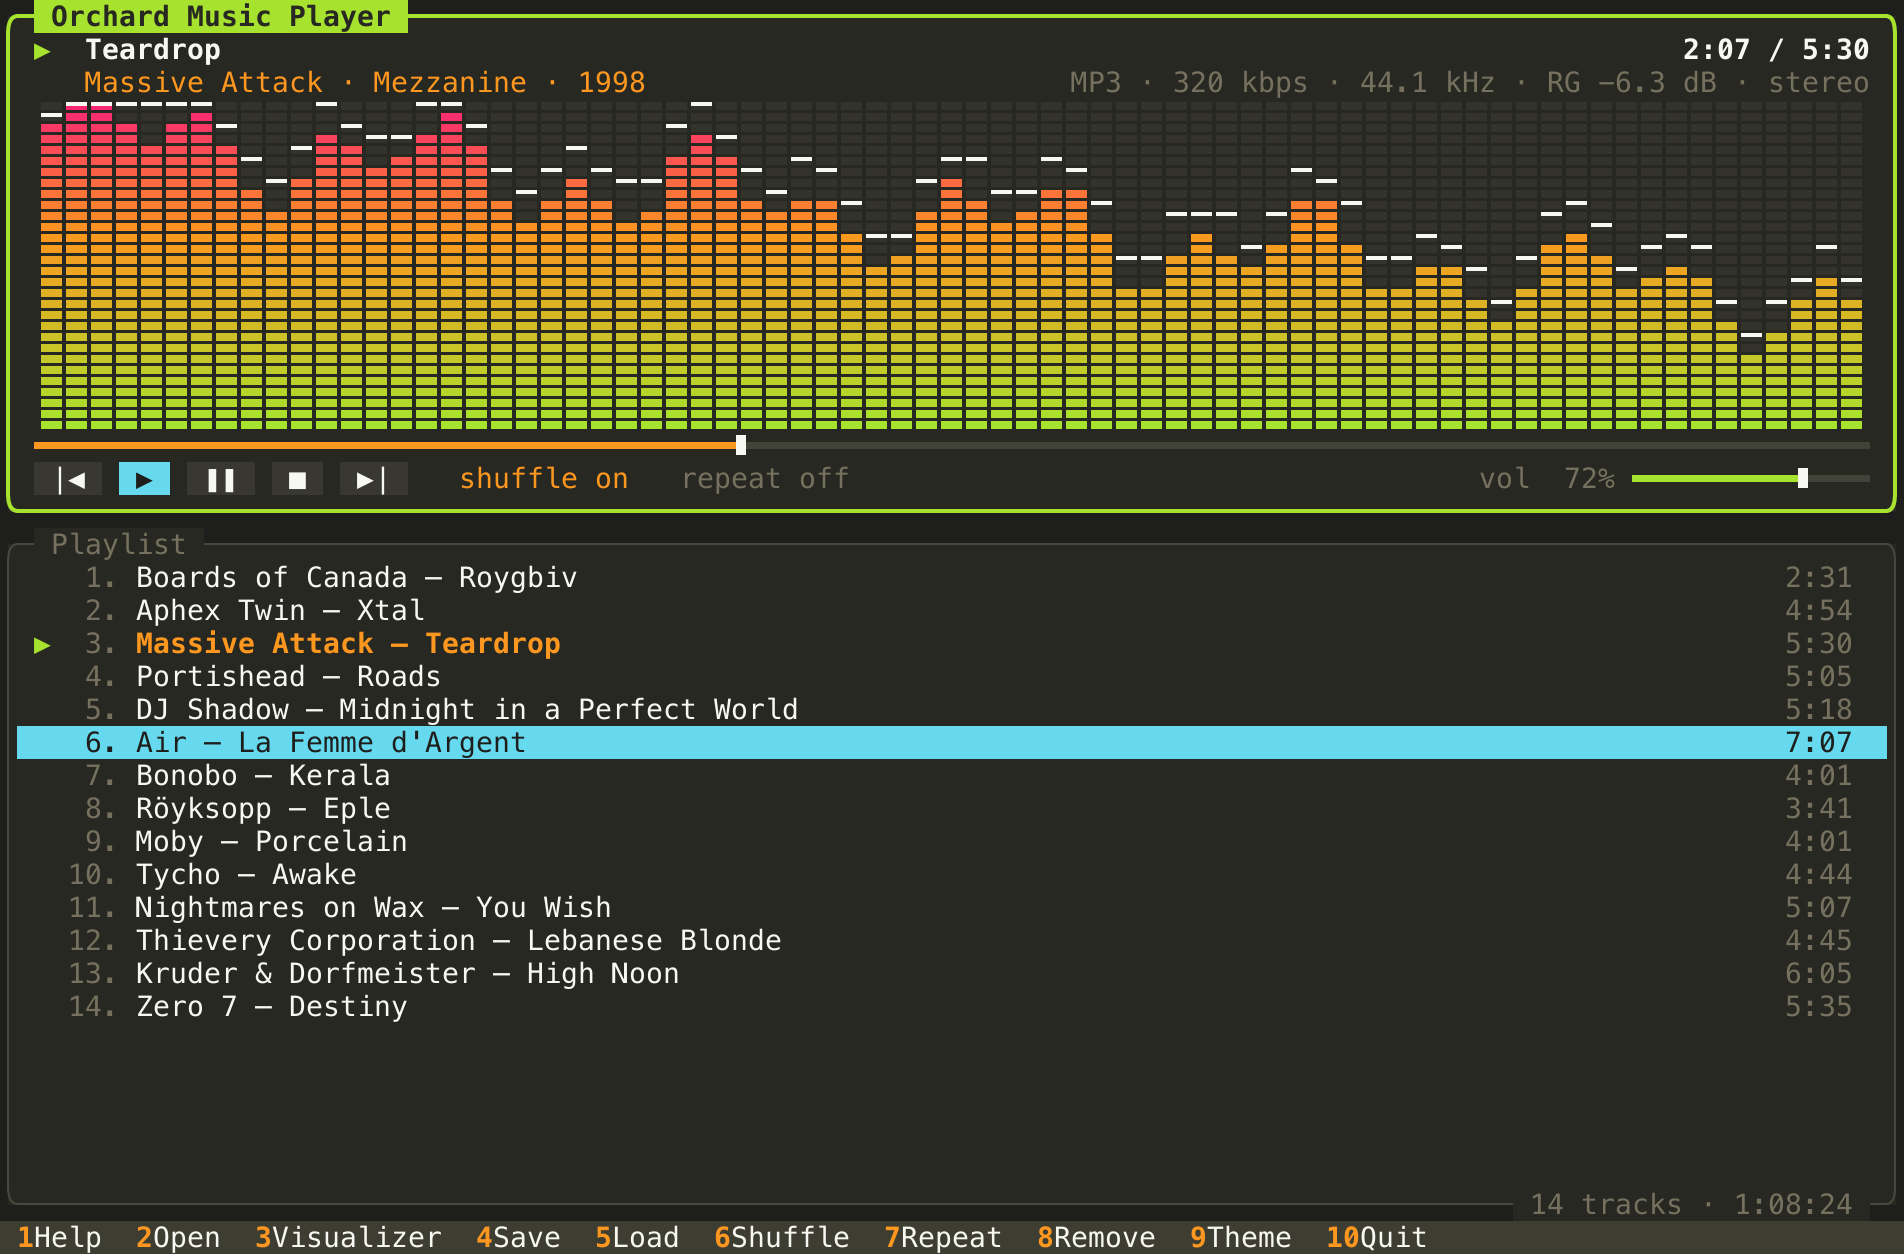
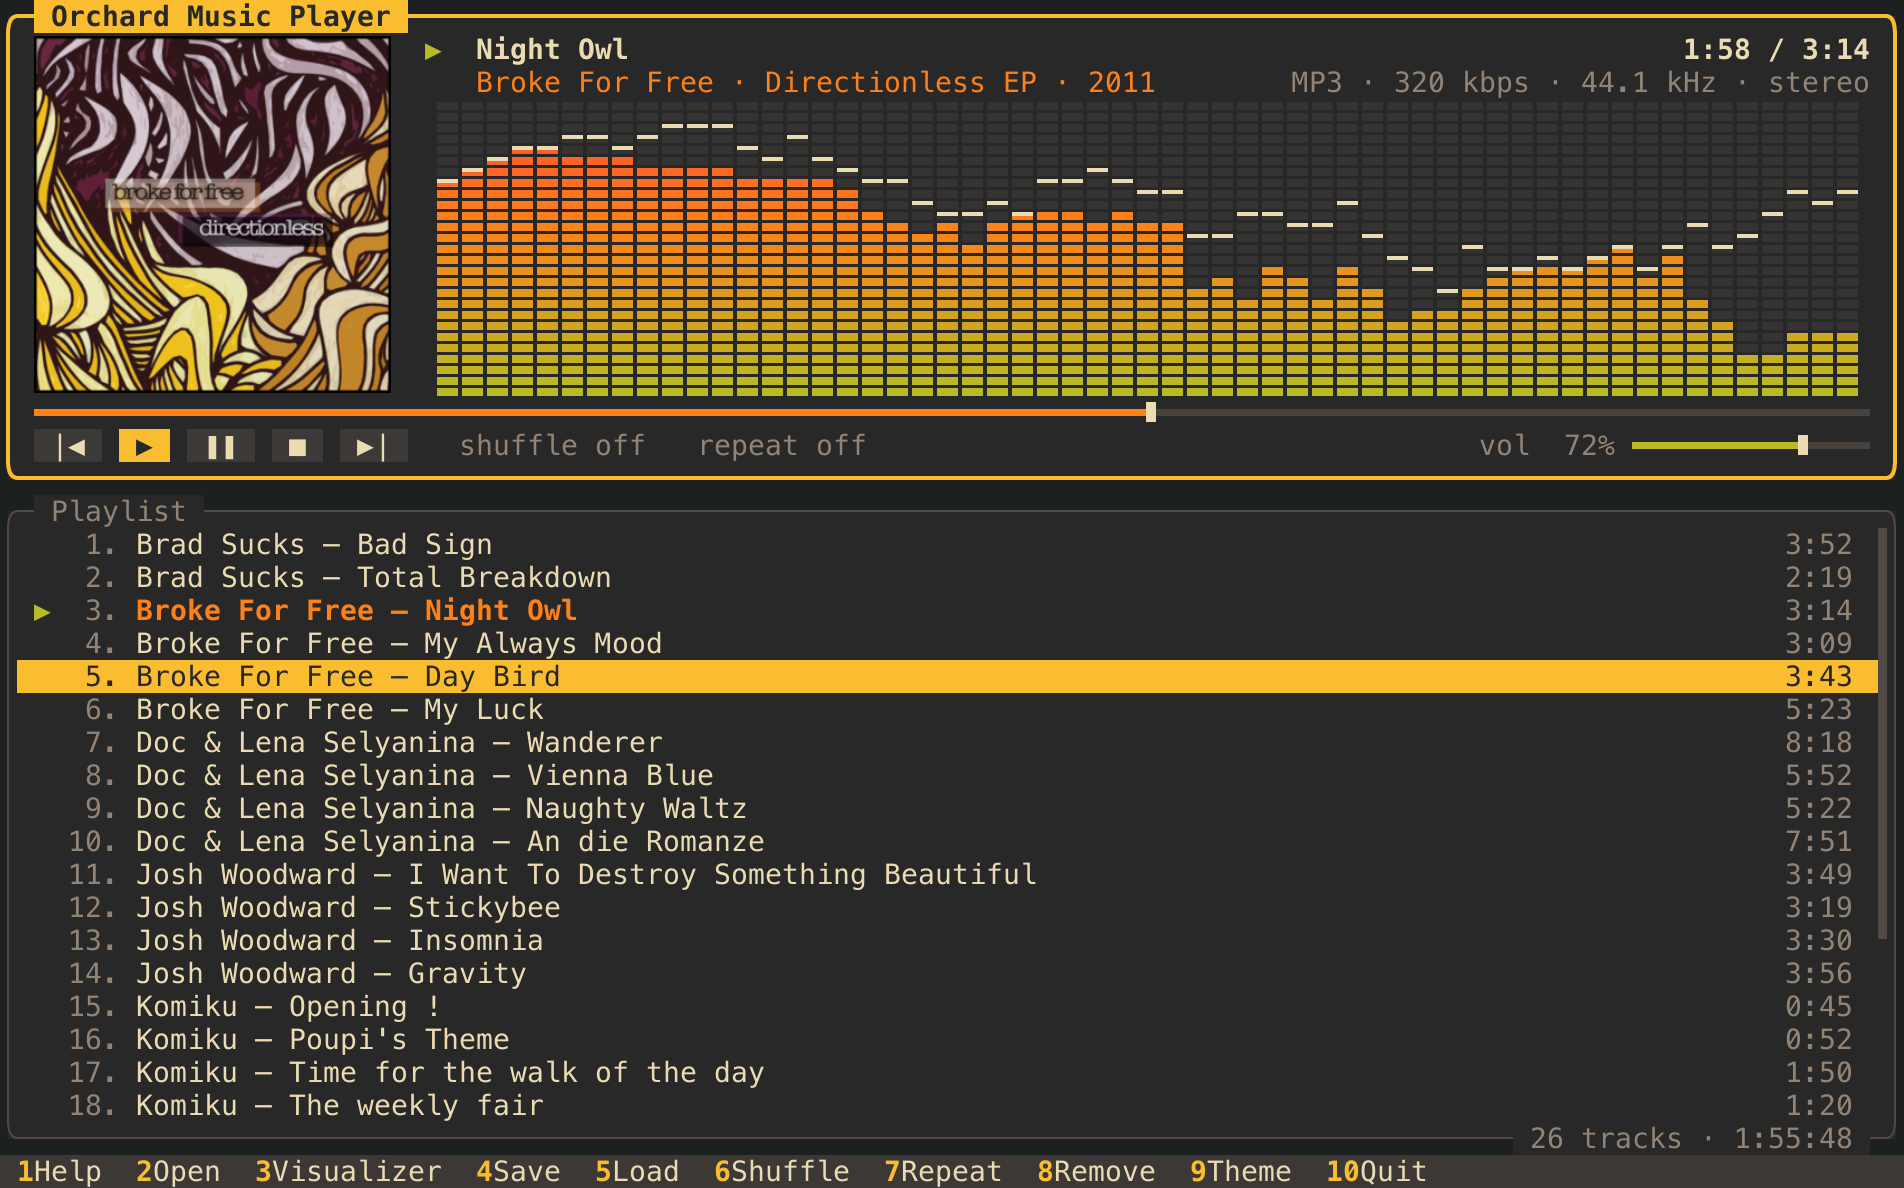
Screenshots with real Creative Commons music
--screenshot --music DIR [--play N] [--at SECONDS] loads real files with
their tags, the playing track's details and cover, and feeds the analyzer
and oscilloscope the decoded audio. Adds --vis, --cursor, --filter,
--dialog browser and lossless WebP output. New site screenshots and
credits for the albums shown.

Changed region(s): [[0.0, 0.0, 1.0, 0.9966], [0.4028, 0.0623, 0.5888, 0.0934], [0.8057, 0.9343, 0.8986, 0.9655]]

diff --git a/src/screenshot.rs b/src/screenshot.rs
@@ -1,16 +1,21 @@
-//! `--screenshot OUT.png`: a demo state drawn headlessly (docs, checking
-//! the look without a window or audio device).
+//! `--screenshot OUT.png|OUT.webp`: a state drawn headlessly (docs, checking
+//! the look without a window or audio device). Either a built-in demo, or
+//! real files with `--music DIR`: their tags, the playing track's details and
+//! cover, and the visualizer fed with its decoded audio at `--at SECONDS`.
 
-use std::path::PathBuf;
+use std::path::{Path, PathBuf};
 use std::process::ExitCode;
 use std::sync::Arc;
+use std::time::{Duration, Instant};
 
 use oc_grid::{Frame, HeadlessRenderer};
 use orchard_music_player::App;
-use orchard_music_player::app::NowPlaying;
-use orchard_music_player::audio::State;
-use orchard_music_player::meta::{Details, Tags};
+use orchard_music_player::app::{Modal, NowPlaying};
+use orchard_music_player::audio::{self, State};
+use orchard_music_player::browser::{self, Browser};
+use orchard_music_player::meta::{self, Details, Tags};
 use orchard_music_player::playlist::Entry;
+use orchard_music_player::spectrum;
 use orchard_music_player::ui;
 
 const DEMO: &[(&str, &str, &str, f64)] = &[
@@ -30,33 +35,86 @@ const DEMO: &[(&str, &str, &str, f64)] = &[
     ("Zero 7", "Destiny", "Simple Things", 335.0),
 ];
 
+/// The cover's image id in the renderer.
+const COVER_ID: u64 = 1;
+/// Frames of audio the analyzer sees before the shot, so the peak caps
+/// hang above the bars as they would.
+const WARMUP_FRAMES: usize = 40;
+const FPS: f64 = 60.0;
+
+#[derive(Default)]
+struct Options {
+    size: (u16, u16),
+    theme: Option<String>,
+    modal: Option<String>,
+    music: Option<PathBuf>,
+    /// 1-based playlist position of the playing track.
+    play: usize,
+    at: f64,
+    vis: Option<spectrum::Mode>,
+    filter: Option<String>,
+    /// 1-based playlist position of the selection.
+    cursor: Option<usize>,
+    /// The folder the file browser shows in its title (it lists `music`).
+    browse_as: Option<PathBuf>,
+    shuffle: bool,
+    volume: f32,
+}
+
+fn parse(args: &[String]) -> Options {
+    let mut o = Options { size: (112, 38), play: 1, at: 60.0, volume: 0.72, ..Options::default() };
+    let mut it = args.iter();
+    while let Some(a) = it.next() {
+        match a.as_str() {
+            "--size" => {
+                if let Some((c, r)) = it.next().and_then(|s| s.split_once('x')) {
+                    o.size = (c.parse().unwrap_or(o.size.0), r.parse().unwrap_or(o.size.1));
+                }
+            }
+            "--theme" => o.theme = it.next().cloned(),
+            "--dialog" => o.modal = it.next().cloned(),
+            "--music" => o.music = it.next().map(PathBuf::from),
+            "--play" => o.play = it.next().and_then(|s| s.parse().ok()).unwrap_or(1),
+            "--at" => o.at = it.next().and_then(|s| s.parse().ok()).unwrap_or(60.0),
+            "--vis" => o.vis = it.next().map(|s| spectrum::Mode::from_label(s)),
+            "--filter" => o.filter = it.next().cloned(),
+            "--cursor" => o.cursor = it.next().and_then(|s| s.parse().ok()),
+            "--browse-as" => o.browse_as = it.next().map(PathBuf::from),
+            "--shuffle" => o.shuffle = true,
+            "--volume" => o.volume = it.next().and_then(|s| s.parse().ok()).unwrap_or(0.72),
+            _ => {}
+        }
+    }
+    o
+}
+
 pub fn run(args: &[String]) -> ExitCode {
     let Some(out) = args.first().map(PathBuf::from) else {
         eprintln!("--screenshot needs an output file");
         return ExitCode::FAILURE;
     };
-    let mut size = (112u16, 38u16);
-    let mut theme: Option<String> = None;
-    let mut modal: Option<String> = None;
-    let mut it = args[1..].iter();
-    while let Some(a) = it.next() {
-        match a.as_str() {
-            "--size" => {
-                if let Some((c, r)) = it.next().and_then(|s| s.split_once('x')) {
-                    size = (c.parse().unwrap_or(size.0), r.parse().unwrap_or(size.1));
-                }
-            }
-            "--theme" => theme = it.next().cloned(),
-            "--dialog" => modal = it.next().cloned(),
-            _ => {}
-        }
-    }
+    let o = parse(&args[1..]);
     let mut app = App::new(Arc::new(|| {}), false, false);
-    if let Some(t) = theme {
-        let s = oc_config::themes::get_scheme(&orchard_music_player::theme::schemes_dir(), &t);
+    if let Some(t) = &o.theme {
+        let s = oc_config::themes::get_scheme(&orchard_music_player::theme::schemes_dir(), t);
         app.apply_scheme(s);
     }
-    demo(&mut app);
+    if let Some(v) = o.vis {
+        app.vis = v;
+    }
+    let music = match &o.music {
+        Some(dir) => match real(&mut app, dir, &o) {
+            Ok(m) => Some(m),
+            Err(e) => {
+                eprintln!("screenshot: {e}");
+                return ExitCode::FAILURE;
+            }
+        },
+        None => {
+            demo(&mut app);
+            None
+        }
+    };
 
     let mut r = match HeadlessRenderer::new(app.theme.font.clone(), 2.0) {
         Ok(r) => r,
@@ -66,30 +124,139 @@ pub fn run(args: &[String]) -> ExitCode {
         }
     };
     let m = r.renderer().metrics();
-    app.resized(size.0, size.1, (m.width as f32, m.height as f32));
-    fake_spectrum(&mut app);
-    match modal.as_deref() {
-        Some("help") => app.modal = Some(orchard_music_player::app::Modal::Help),
+    app.resized(o.size.0, o.size.1, (m.width as f32, m.height as f32));
+    match &music {
+        Some(audio) => real_spectrum(&mut app, audio),
+        None => fake_spectrum(&mut app),
+    }
+    if let Some(cover) = app.now.as_ref().and_then(|n| n.details.as_ref()).and_then(|d| d.cover.as_ref())
+        && let Err(e) = r.renderer().set_image(ui::cover_image(COVER_ID), cover.width, cover.height, &cover.rgba)
+    {
+        eprintln!("cover: {e}");
+    }
+    match o.modal.as_deref() {
+        Some("help") => app.modal = Some(Modal::Help),
         Some("themes") => app.open_theme_picker(),
         Some("save") => app.open_save_prompt(),
         Some("filter") => {
             app.start_filter();
             if let Some(f) = &mut app.filter {
-                f.field = orchard_music_player::ui::widgets::TextField::new("ai");
+                f.field = ui::widgets::TextField::new(o.filter.as_deref().unwrap_or("ai"));
             }
             app.refilter();
         }
+        Some("browser") => open_browser(&mut app, o.music.clone(), o.browse_as.clone()),
         _ => {}
     }
-    let mut frame = Frame::new(size.0, size.1, app.theme.colors.background);
+    let mut frame = Frame::new(o.size.0, o.size.1, app.theme.colors.background);
     ui::draw(&app, &mut frame);
-    match r.render(&frame).and_then(|img| img.save_png(&out)) {
+    let saved = r.render(&frame).map_err(|e| e.to_string()).and_then(|img| save(&img, &out));
+    match saved {
         Ok(()) => ExitCode::SUCCESS,
         Err(e) => {
             eprintln!("screenshot: {e}");
             ExitCode::FAILURE
         }
     }
+}
+
+/// PNG, or lossless WebP for a `.webp` name.
+fn save(img: &oc_grid::RgbaImage, out: &Path) -> Result<(), String> {
+    let webp = out.extension().is_some_and(|e| e.eq_ignore_ascii_case("webp"));
+    if !webp {
+        return img.save_png(out).map_err(|e| e.to_string());
+    }
+    let buf = image::RgbaImage::from_raw(img.width, img.height, img.data.clone()).ok_or("bad image size")?;
+    buf.save_with_format(out, image::ImageFormat::WebP).map_err(|e| e.to_string())
+}
+
+/// The file browser on `dir` (the music folder), listed right away; its
+/// title says `shown` if given (a tidy path for docs).
+fn open_browser(app: &mut App, dir: Option<PathBuf>, shown: Option<PathBuf>) {
+    let dir = dir.or_else(dirs::audio_dir).or_else(dirs::home_dir).unwrap_or_else(|| PathBuf::from("/"));
+    let dir = dir.canonicalize().unwrap_or(dir);
+    let mode = browser::Mode::Add;
+    let mut b = Browser::new(mode, dir.clone());
+    b.going_to(dir.clone());
+    b.listed(browser::list(&dir, mode));
+    b.move_cursor(2);
+    if let Some(shown) = shown {
+        b.dir = shown;
+    }
+    app.modal = Some(Modal::Browser(b));
+    let h = ui::dialog_list_height(app);
+    if let Some(Modal::Browser(b)) = &mut app.modal {
+        b.scroll_into_view(h);
+    }
+}
+
+/// Decoded audio of the playing track, ending at the shot's moment.
+struct Audio {
+    samples: Vec<f32>,
+    rate: u32,
+}
+
+/// The files under `dir` as the app adds them, with their tags; the
+/// `o.play`th plays at `o.at` seconds.
+fn real(app: &mut App, dir: &Path, o: &Options) -> Result<Audio, String> {
+    let dir = dir.canonicalize().map_err(|e| format!("{}: {}", dir.display(), meta::io_reason(&e)))?;
+    let mut entries = browser::expand(std::slice::from_ref(&dir));
+    if entries.is_empty() {
+        return Err(format!("no audio files in {}", dir.display()));
+    }
+    for e in &mut entries {
+        e.tags = Some(meta::read_tags(&e.path));
+    }
+    app.playlist.entries = entries;
+    let cur = o.play.clamp(1, app.playlist.len()) - 1;
+    app.playlist.current = Some(cur);
+    app.playlist.mark_played(cur);
+    app.playlist.cursor = o.cursor.map_or(cur, |c| c.clamp(1, app.playlist.len()) - 1);
+    app.settings.last_dir = Some(dir.clone());
+
+    let e = &app.playlist.entries[cur];
+    let path = e.path.clone();
+    let tags = e.tags.clone().unwrap_or_default();
+    let rate = app.player.rate();
+    let span = spectrum::FFT_SIZE.max(audio::SCOPE_LEN) + (WARMUP_FRAMES as f64 * rate as f64 / FPS) as usize;
+    let from = (o.at - span as f64 / rate as f64).max(0.0);
+    let (samples, info) = audio::decode_mono(&path, from, span, rate, app.gain_mode)?;
+    if samples.len() < spectrum::FFT_SIZE {
+        return Err(format!("{} is shorter than {} s", path.display(), o.at));
+    }
+    let details: Details = meta::read_details(&path);
+    app.now = Some(NowPlaying {
+        path,
+        duration: tags.duration.or(info.duration),
+        tags,
+        details: Some(details),
+        codec: info.codec,
+        cover_id: COVER_ID,
+        gain: Some(info.gain),
+    });
+    app.fake_state = Some(State::Playing);
+    app.fake_position = Some(from + samples.len() as f64 / rate as f64);
+    app.shuffle = o.shuffle;
+    app.player.set_volume(o.volume);
+    Ok(Audio { samples, rate })
+}
+
+/// The analyzer over the last frames of real audio, as the app runs it at
+/// 60 fps; the scope gets the latest samples.
+fn real_spectrum(app: &mut App, audio: &Audio) {
+    let count = ui::bar_count(app);
+    let step = (audio.rate as f64 / FPS) as usize;
+    let t0 = Instant::now();
+    let n = audio.samples.len();
+    for k in 0..=WARMUP_FRAMES {
+        let end = n - (WARMUP_FRAMES - k) * step;
+        if end < spectrum::FFT_SIZE {
+            continue;
+        }
+        let now = t0 + Duration::from_secs_f64(k as f64 / FPS);
+        app.analyzer.update(Some(&audio.samples[..end]), audio.rate, count, now);
+    }
+    app.player.fill_scope(&audio.samples);
 }
 
 fn demo(app: &mut App) {

diff --git a/src/audio.rs b/src/audio.rs
@@ -376,6 +376,16 @@ impl Player {
         let _ = self.cmds.send(then(&mut b));
     }
 
+    /// Screenshots: `samples` (mono) as the latest played audio.
+    pub fn fill_scope(&self, samples: &[f32]) {
+        let mut sc = self.shared.scope.lock().unwrap();
+        for &s in samples.iter().rev().take(SCOPE_LEN).rev() {
+            let w = sc.write;
+            sc.samples[w] = s;
+            sc.write = (w + 1) % SCOPE_LEN;
+        }
+    }
+
     fn clear_scope(&self) {
         let mut sc = self.shared.scope.lock().unwrap();
         sc.samples.fill(0.0);
@@ -468,6 +478,27 @@ fn open(path: &Path, out_rate: u32) -> Result<(Source, TrackInfo), String> {
         },
         info,
     ))
+}
+
+/// Screenshots: `frames` mono samples of `path` from `from` seconds on, at
+/// `rate` with `mode`'s gain (what the visualizer would get), and what the
+/// decoder learned about the track.
+pub fn decode_mono(path: &Path, from: f64, frames: usize, rate: u32, mode: GainMode) -> Result<(Vec<f32>, TrackInfo), String> {
+    let (mut src, info) = open(path, rate)?;
+    if from > 0.0 {
+        src.seek(from);
+    }
+    let mut out = Vec::with_capacity(frames);
+    let mut chunk = Vec::new();
+    while out.len() < frames {
+        chunk.clear();
+        if !src.decode(1, mode, &mut chunk)? {
+            break;
+        }
+        out.extend_from_slice(&chunk);
+    }
+    out.truncate(frames);
+    Ok((out, info))
 }
 
 impl Source {

diff --git a/src/main.rs b/src/main.rs
@@ -342,7 +342,7 @@ impl ApplicationHandler<UserEvent> for Platform {
 }
 
 fn usage() -> &'static str {
-    "usage: orchard-music-player [FILE|FOLDER|PLAYLIST.m3u]...\n       orchard-music-player --version | --self-test\n       orchard-music-player --screenshot OUT.png [--size COLSxROWS] [--theme NAME]"
+    "usage: orchard-music-player [FILE|FOLDER|PLAYLIST.m3u]...\n       orchard-music-player --version | --self-test\n       orchard-music-player --screenshot OUT.png|OUT.webp [--size COLSxROWS] [--theme NAME] [--dialog help|themes|save|filter|browser] [--music DIR [--play N] [--at SECONDS]] [--vis bars|scope|off]"
 }
 
 /// `--self-test`: decoding and drawing work in this build (for packaging

diff --git a/docs/screenshot-credits.md b/docs/screenshot-credits.md
@@ -1,0 +1,21 @@
+# Screenshot credits
+
+The screenshots in `site/screenshots/` and `docs/screenshot.png` show real
+music by real artists, released under Creative Commons licenses that allow
+reuse (no NonCommercial, no NoDerivatives). The player shows the albums'
+tags and cover art.
+
+| Artist | Album | Year | License | Source |
+|--------|-------|------|---------|--------|
+| Broke For Free | Directionless EP | 2011 | [CC BY 3.0](https://creativecommons.org/licenses/by/3.0/) | [Free Music Archive](https://freemusicarchive.org/music/Broke_For_Free/Directionless_EP/) |
+| Brad Sucks | Out of It | 2008 | [CC BY-SA 3.0](https://creativecommons.org/licenses/by-sa/3.0/) | [Free Music Archive](https://freemusicarchive.org/music/Brad_Sucks/Out_Of_It/) |
+| Josh Woodward | Dirty Wings | 2010 | [CC BY 3.0](https://creativecommons.org/licenses/by/3.0/) | [Free Music Archive](https://freemusicarchive.org/music/Josh_Woodward/Dirty_Wings/) |
+| Komiku | Poupi's Incredible Adventures! | 2018 | [CC0 1.0](https://creativecommons.org/publicdomain/zero/1.0/) | [Free Music Archive](https://freemusicarchive.org/music/Komiku/Poupis_incredible_adventures_/) |
+| Loyalty Freak Music | To Chill and Stay Awake | 2017 | [CC0 1.0](https://creativecommons.org/publicdomain/zero/1.0/) | [Free Music Archive](https://freemusicarchive.org/music/Loyalty_Freak_Music/TO_CHILL_AND_STAY_AWAKE/) |
+| Lingua Lustra | Violet | 2013 | [CC BY 3.0](https://creativecommons.org/licenses/by/3.0/) | [Internet Archive (Breathe netlabel, brhnet28)](https://archive.org/details/Lingua_Lustra_-_Violet) |
+| Doc & Lena Selyanina | Vienna Blue | 2009 | [CC BY 3.0](https://creativecommons.org/licenses/by/3.0/) | [Internet Archive (Musictrade, MT021)](https://archive.org/details/mt021) |
+
+The album covers appear in the screenshots under the same licenses as the
+releases they belong to, credited to the artists above. For the screenshots
+some tracks were converted to other formats (Opus, FLAC, Ogg Vorbis) and
+retagged; the music itself was not changed.

diff --git a/README.md b/README.md
@@ -72,5 +72,7 @@ Settings and the session playlist live in the platform config folder
 ```sh
 cargo test
 OMP_TEST_MUSIC=/path/to/some/music cargo test -- --nocapture   # decode + tag real files
-orchard-music-player --screenshot out.png [--size 110x36] [--theme nord] [--dialog help|themes|save]
+orchard-music-player --screenshot out.png [--size 110x36] [--theme nord] [--dialog help|themes|save|filter|browser]
+# real files: their tags and cover, the visualizer fed with the decoded audio; .webp saves lossless WebP
+orchard-music-player --screenshot out.webp --music DIR [--play N] [--at SECONDS] [--vis bars|scope] [--cursor N] [--filter TEXT]
 ```
